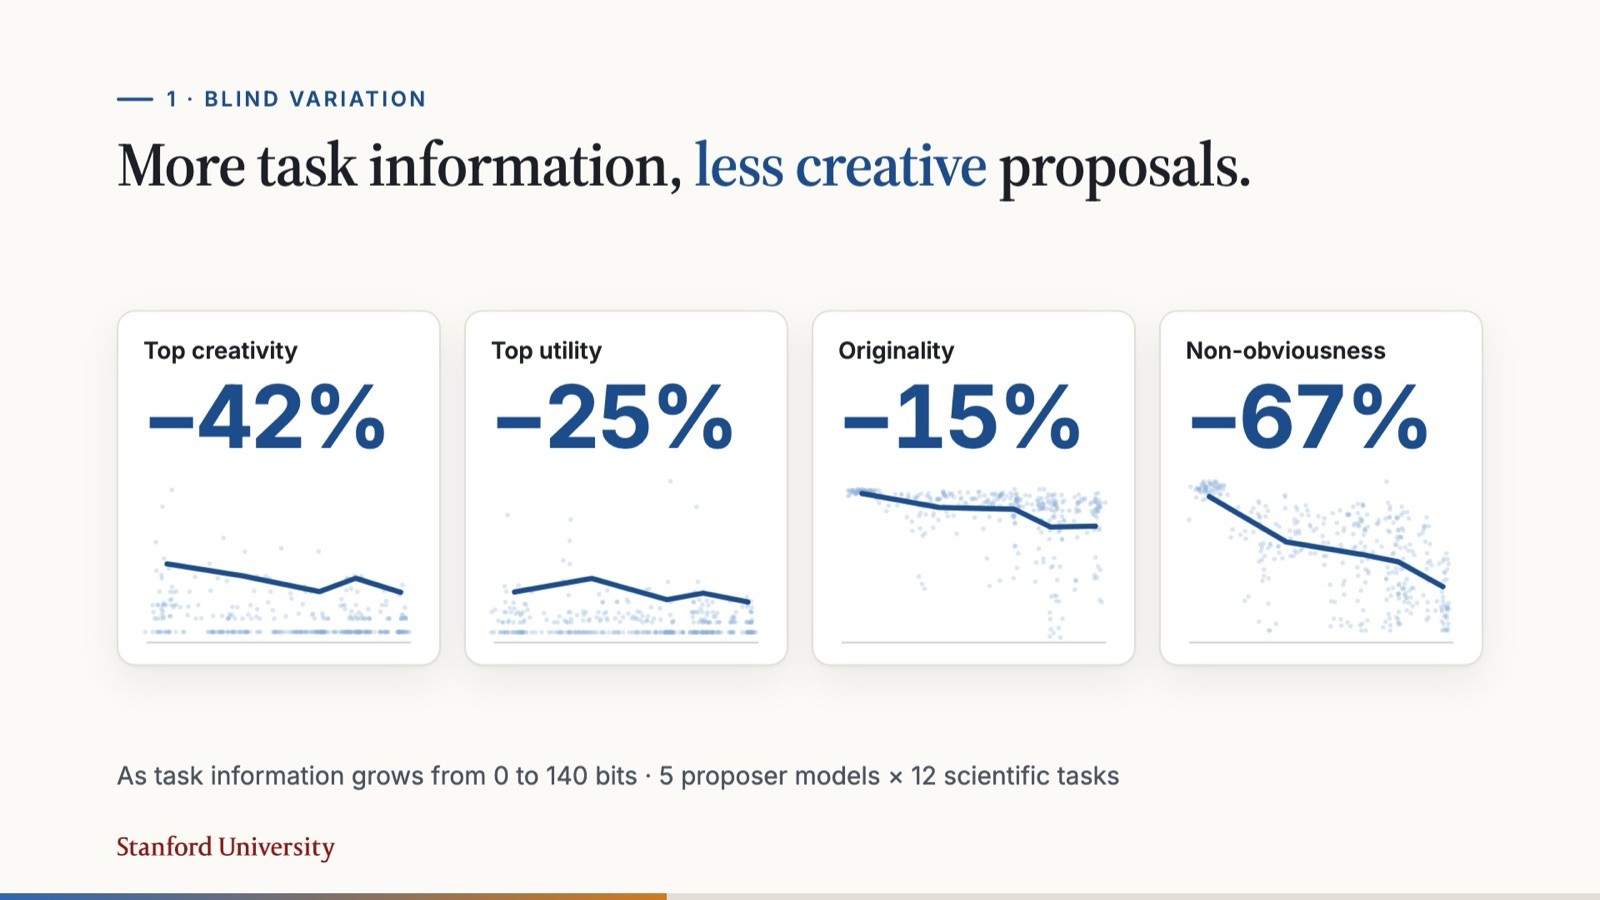
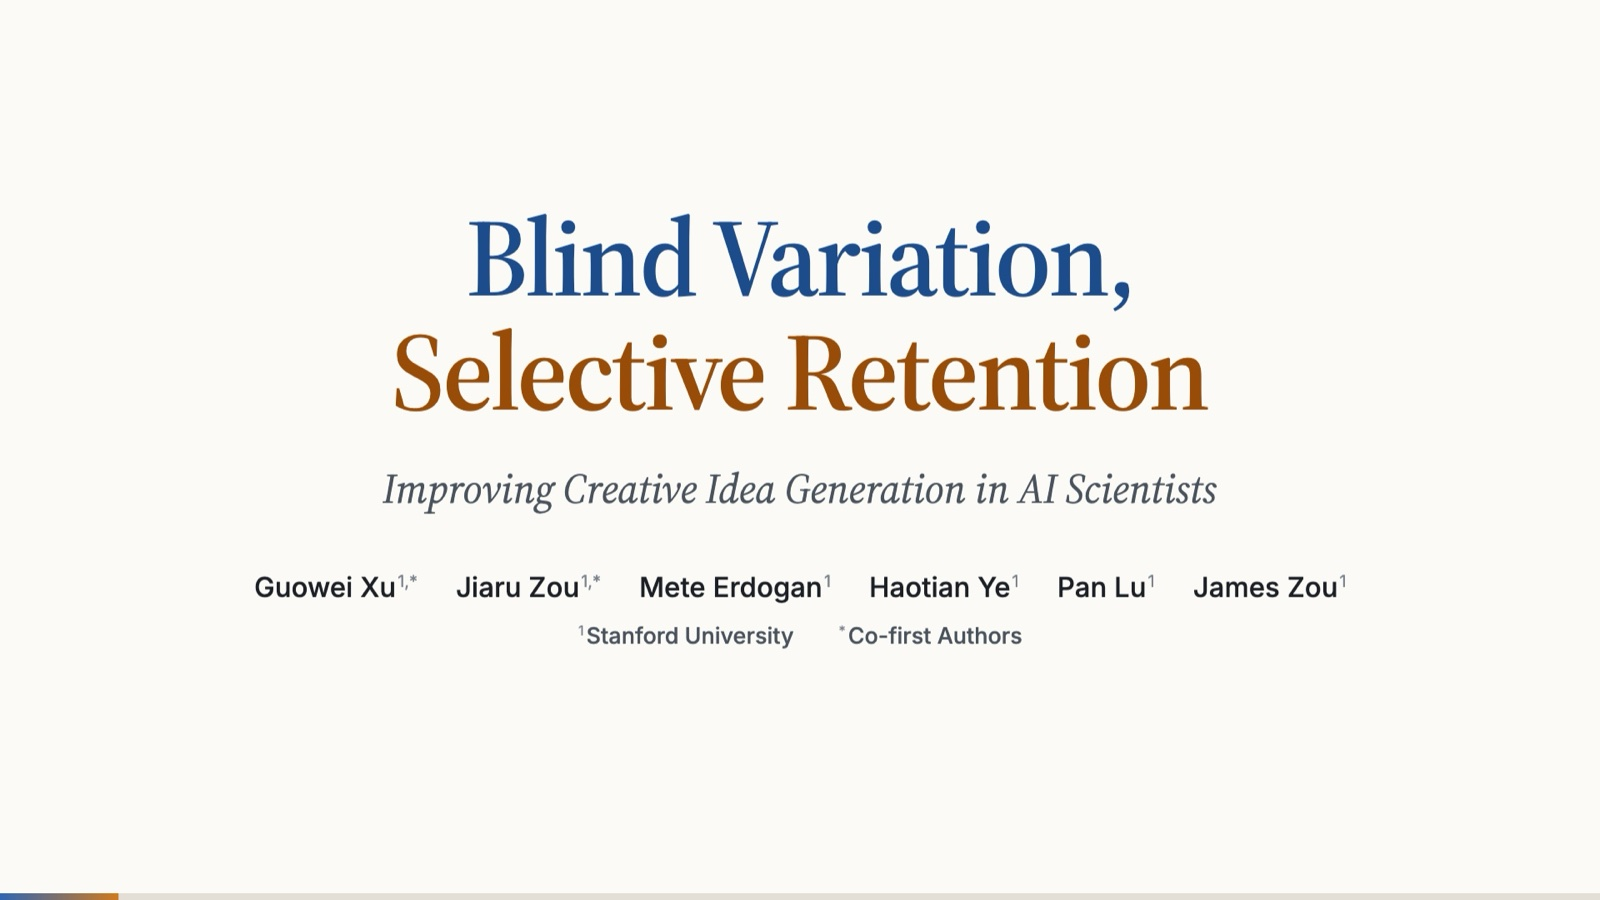
update website

diff --git a/index.html b/index.html
@@ -204,7 +204,7 @@
   </div>
   <div class="wide reveal" style="margin-top:8px">
     <div class="video-shell">
-      <video controls preload="metadata" playsinline poster="assets/video/bvsr-walkthrough-poster.jpg">
+      <video controls preload="metadata" playsinline poster="assets/video/bvsr-walkthrough-poster.jpg?v=2">
         <source src="assets/video/bvsr-walkthrough.mp4" type="video/mp4">
         Your browser does not support embedded video. <a href="assets/video/bvsr-walkthrough.mp4">Download the walkthrough</a>.
       </video>
